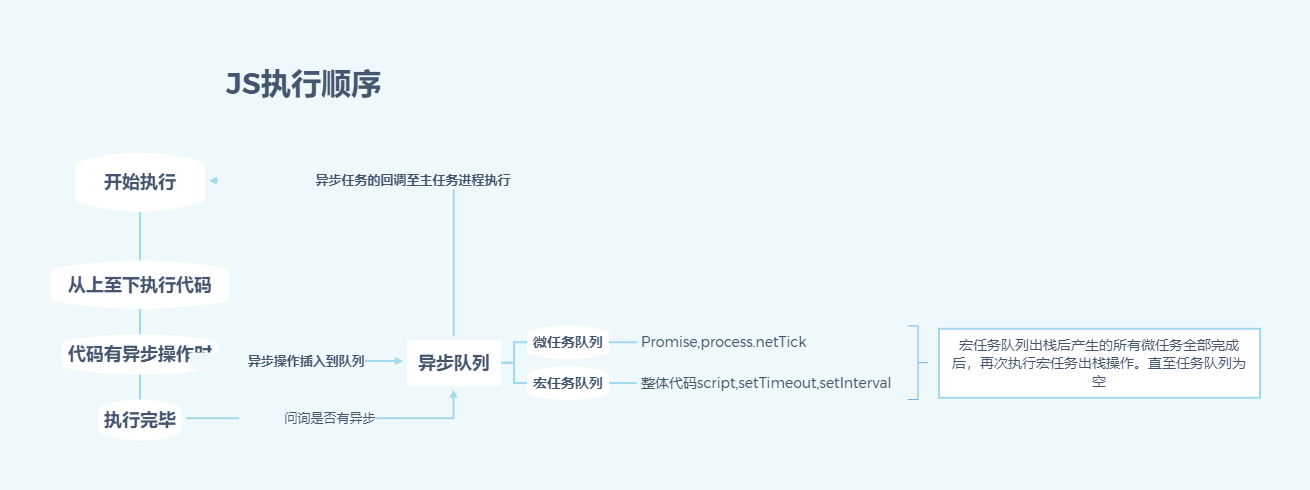
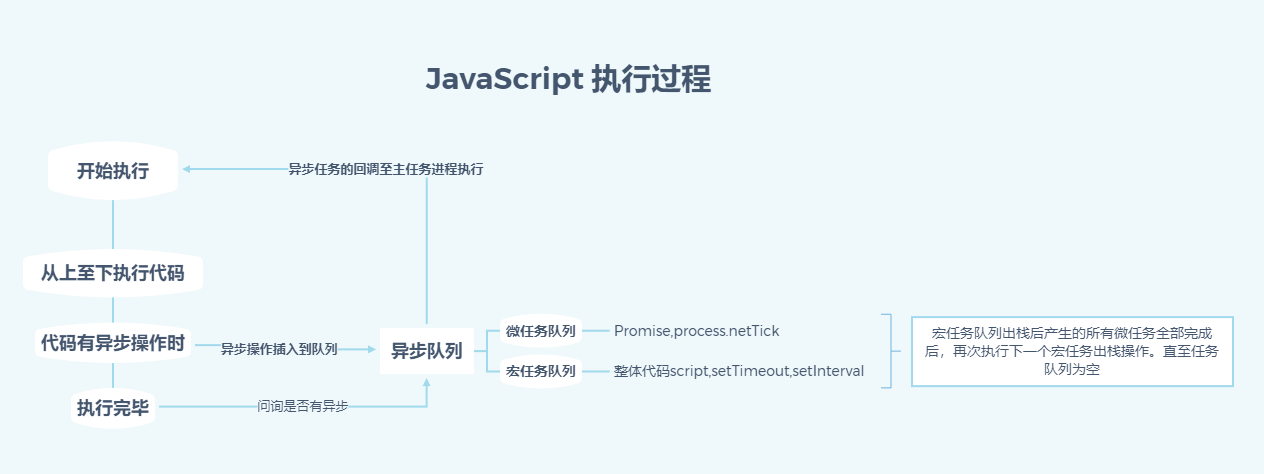
vue基础

diff --git a/docs/article/basic/js.md b/docs/article/basic/js.md
@@ -8,15 +8,16 @@
 
 javascript 是一门<em>单线程</em>语言，不管是什么新框架新语法糖实现的所谓异步，其实都是用同步的方法去模拟的，牢牢把握住单线程这点非常重要。
 
-### 2.事件循环 Event Loop
+### 2.JavaScript 执行过程
 ![Event Loop脑图](../assets/eventLoop.png)
-
-事件循环是 js 实现异步的一种方法，也是 js 的执行机制。
-- 同步和异步任务分别进入不同的执行"场所"，同步的进入主线程，异步的进入Event Table并注册函数。
-- 当指定的事情完成时，Event Table会将这个函数移入Event Queue。
-- 主线程内的任务执行完毕为空，会去Event Queue读取对应的函数，进入主线程执行。
-- 上述过程会不断重复，也就是常说的Event Loop(事件循环)。
-
+- 事件循环(Event Loop)是 js 实现异步的一种方法，也是 js 的执行机制。
+   * js执行过程中，同步和异步任务分别进入不同的执行"场所"，同步的进入主线程，异步的回调函数插入到异步队列。
+   * 主线程内的任务执行完毕为空，会去异步队列读取对应的函数，进入主线程执行。
+   * 上述过程会不断重复，也就是常说的Event Loop(事件循环)。
+- 异步队列又分微任务队列和宏任务队列
+   * 常用的微任务队列:Promise,process.netTick(node)
+   * 常用的宏任务队列:整体代码script,setTimeout,setInterval
+   * 异步队列执行过程：宏任务队列出栈后产生的所有微任务全部完成后，再次执行下一个宏任务出栈操作。直至任务队列为空
 
 ### 3.javascript 的执行和运行
 
